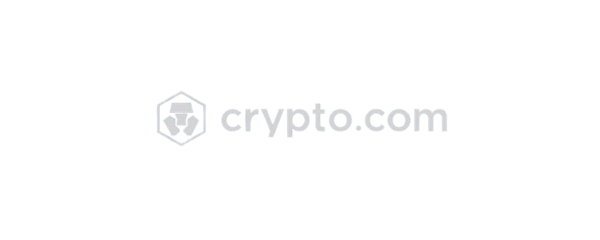
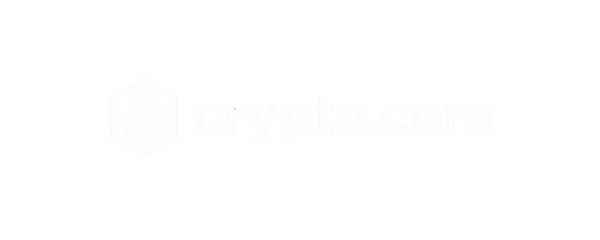
Add files via upload

Changed region(s): [[0.24, 0.3792, 0.75, 0.6125]]

diff --git a/index.html b/index.html
@@ -514,7 +514,7 @@ overflow-x: hidden;
     color: #ffffff;
     font-size: 12px;
     font-weight: 800;
-    margin-bottom: 12px;
+    margin-bottom: 12px; 
     text-shadow:
         0 0 6px rgba(70,130,255,0.8),
         0 0 14px rgba(70,130,255,0.5);
@@ -614,7 +614,7 @@ top: -10px;
     }
 
     .partner{
-      min-height:90px;
+      min-height:60px;
       border:1px solid rgba(255,244,0,.25);
       border-radius:15px;
       display:grid;
@@ -634,49 +634,49 @@ top: -10px;
    width: 85%;
 max-width: none;
 max-height: none;
-transform: translate(-2px, 5px) scale(2.8);
+transform: translate(1px, -7px) scale(1.2);
 transform-origin: center center;
 justify-self: center;
 align-self: center;
 }
 .partner img[src="images/binance.png"] {
-    transform: translate(-1px, 3px) scale(2.3);
+    transform: translate(-1px, 1px) scale(1.7);
     transform-origin: center center;
     justify-self: center;
     align-self: center;
 }
 .partner img[src="images/crypto.com.png"] {
-    transform: translate(0px, -1px) scale(2.2);
+    transform: translate(0px, 1px) scale(1.6);
     transform-origin: center center;
     justify-self: center;
     align-self: center;
  }
- .partner img[src="images/fairyproof.png"] {
-    transform: translate(-2px, -4px) scale(2.9);
+ .partner img[src="images/htx.png"] {
+    transform: translate(-2px, -1px) scale(1.9);
     transform-origin: center center;
     justify-self: center;
     align-self: center;
 }
 .partner img[src="images/bitget.png"] {
-    transform: translate(2px, -3px) scale(2.9);
+    transform: translate(-2px, 2px) scale(1.75);
     transform-origin: center center;
     justify-self: center;
     align-self: center;
 }
 .partner img[src="images/trust.png"] {
-    transform: translate(-1px, 0px) scale(2.2);
+    transform: translate(-1px, 1px) scale(1.3);
     transform-origin: center center;
     justify-self: center;
     align-self: center;
 }
 .partner img[src="images/defibox.png"] {
-    transform: translate(0px, -4px) scale(2.1);
+    transform: translate(0px, -1px) scale(1.60);
     transform-origin: center center;
     justify-self: center;
     align-self: center;
 }
 .partner img[src="images/coolwallet.png"] {
-    transform: translate(0px, 0px) scale(2.5);
+    transform: translate(0px, 0px) scale(1.4);
     transform-origin: center center;
     justify-self: center;
     align-self: center;
@@ -1580,11 +1580,18 @@ cursor: pointer;
   .partners {
     grid-template-columns: 1fr 1fr;
     gap: 8px;
+    margin-top: 17px
   }
 
   .partner {
-    min-height: 80px;
+    height: 68px;
+min-height: 68px;
     font-size: 14px;
+    background: transparent;
+
+    border: 1px solid rgba(65, 130, 255, 0.25);
+border-radius: 15px;
+box-shadow: 0 0 5px rgba(65, 130, 255, 0.18);
   }
   body {
     padding-bottom: 120px;
@@ -2491,6 +2498,11 @@ top: 38%;
     align-content: start;
 }
 
+.partner-title {
+    position: relative;
+    top: 8px;
+}
+
 </style>
 </head>
 <div id="homePage" class="app-page active">
@@ -2962,14 +2974,14 @@ top: 38%;
   </div>
 </div>
 </div>
-<h2>合作夥伴與協作網絡</h2>
+<h2 class="partner-title">合作夥伴與協作網絡</h2>  
 
 <div class="partners">
 
  <div class="partner"><img src="images/okx.png" alt="OKX"></div>
 <div class="partner"><img src="images/binance.png" alt="Binance"></div>
 <div class="partner"><img src="images/crypto.com.png" alt="Crypto.com"></div>
-<div class="partner"><img src="images/fairyproof.png" alt="HTX"></div>
+<div class="partner"><img src="images/htx.png" alt="HTX"></div>
 <div class="partner"><img src="images/bitget.png" alt="Bitget"></div>
 <div class="partner"><img src="images/trust.png" alt="Trust Wallet"></div>
 <div class="partner"><img src="images/defibox.png" alt="Defibox"></div>
